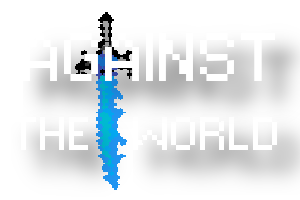
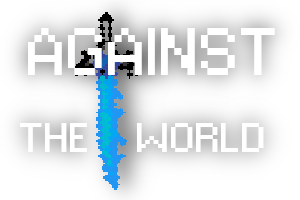
add menu image

diff --git a/main.py b/main.py
@@ -15,11 +15,13 @@ screen = pygame.display.set_mode((800, 600))
 pygame.display.set_caption('Against The World')
 
 game_state = GameState()
+menu_image = UIElement((400, 150), image='images/againsttheworld.png')
 play_button = Button(lambda: game_state.change_state(game_state.game), (400, 300), 'PLAY')
 all_sprites = pygame.sprite.Group()
 ground_tiles = pygame.sprite.Group()
 menu_elements = pygame.sprite.Group()
 menu_elements.add(play_button)
+menu_elements.add(menu_image)
 ground_coords = {}
 for x in range(-7500, 7500, 750):
     ground_coords[x] = Ground((x, 450))
@@ -60,8 +62,7 @@ while running:
         element: UIElement
         for element in menu_elements:
             for event in events:
-                if event.type == pygame.MOUSEBUTTONDOWN and element.rect.collidepoint(event.pos):
-                    element.update(event)
+                element.update(event)
             screen.blit(element.surface, element.rect)
 
     if game_state.state == 'Game':

diff --git a/sprites/menu.py b/sprites/menu.py
@@ -11,9 +11,12 @@ font = pygame.font.Font(os.path.abspath('misc/C&C Red Alert [INET].ttf'), 50)
 
 
 class UIElement(pygame.sprite.Sprite):
-    def __init__(self, coords, text, *args):
+    def __init__(self, coords, text='', image='', *args):
         super(UIElement, self).__init__(*args)
-        self.surface = font.render(text, False, (255, 255, 255)).convert_alpha()
+        if text:
+            self.surface = font.render(text, False, (255, 255, 255)).convert_alpha()
+        elif image:
+            self.surface = pygame.image.load(image)
         self.rect = self.surface.get_rect(center=coords)
 
 
